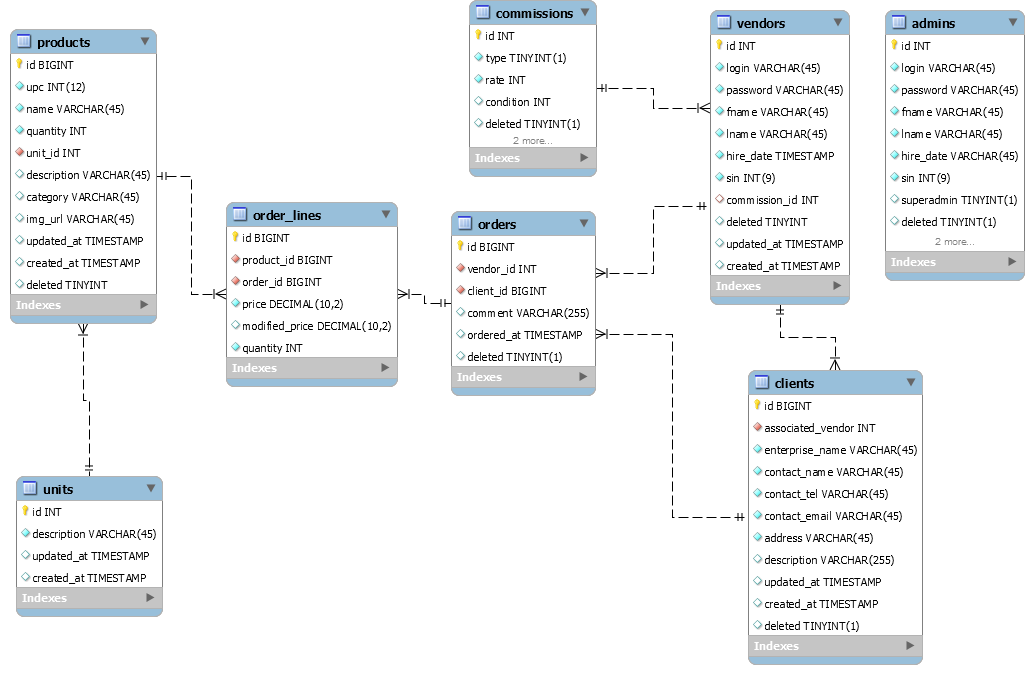
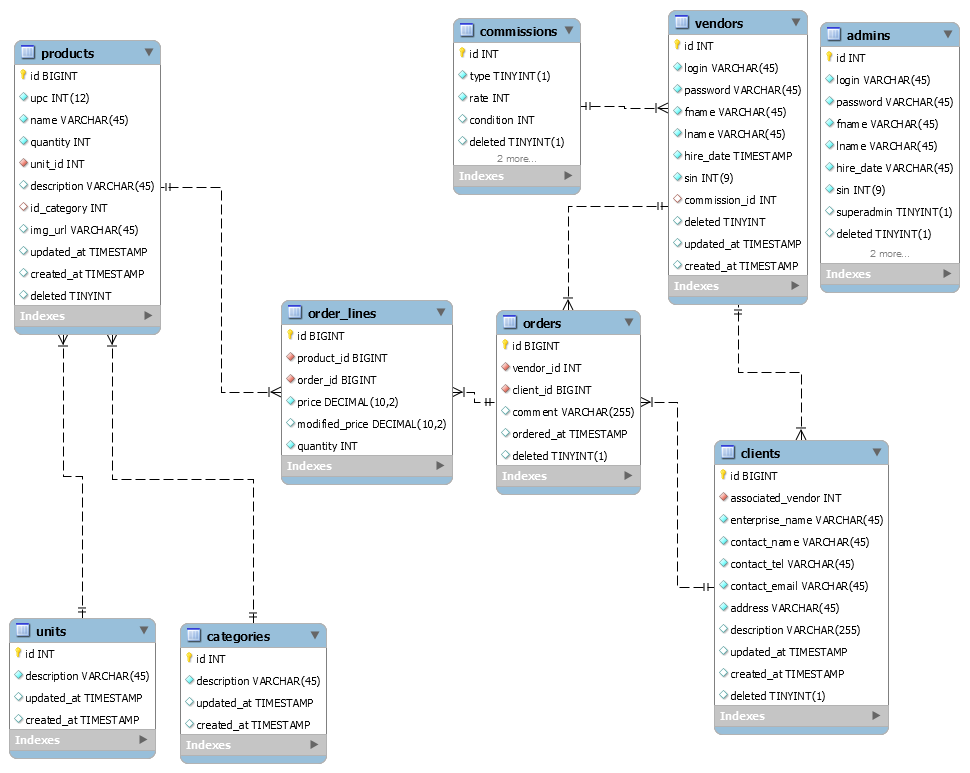
Added category and fixed some entities

diff --git a/src/com/devsolutions/camelus/entities/Product.java b/src/com/devsolutions/camelus/entities/Product.java
@@ -10,10 +10,10 @@ public class Product {
 	private int quantity;
 	private int unit_id;
 	private String description;
-	private String category;
-	private String imgUrl;
+	private int category_id;
+	private String img_url;
 	private Date created_at;
-	private Date updtated_at;
+	private Date updated_at;
 	private int deleted;
 
 	public long getId() {
@@ -56,20 +56,20 @@ public class Product {
 		this.description = description;
 	}
 
-	public String getCategory() {
-		return category;
+	public int getCategory_id() {
+		return category_id;
 	}
 
-	public void setCategory(String category) {
-		this.category = category;
+	public void setCategory_id(int category_id) {
+		this.category_id = category_id;
 	}
 
-	public String getImgUrl() {
-		return imgUrl;
+	public String getImg_url() {
+		return img_url;
 	}
 
-	public void setImgUrl(String imgUrl) {
-		this.imgUrl = imgUrl;
+	public void setImg_url(String img_url) {
+		this.img_url = img_url;
 	}
 
 	public int getUnit_id() {
@@ -88,12 +88,12 @@ public class Product {
 		this.created_at = created_at;
 	}
 
-	public Date getUpdtated_at() {
-		return updtated_at;
+	public Date getUpdated_at() {
+		return updated_at;
 	}
 
-	public void setUpdtated_at(Date updtated_at) {
-		this.updtated_at = updtated_at;
+	public void setUpdated_at(Date updated_at) {
+		this.updated_at = updated_at;
 	}
 
 	public int getDeleted() {

diff --git a/src/com/devsolutions/camelus/entities/Admin.java b/src/com/devsolutions/camelus/entities/Admin.java
@@ -8,9 +8,11 @@ public class Admin {
 	private String password;
 	private String fname;
 	private String lname;
-	private Date hireDate;
+	private Date hire_date;
 	private int sin;
 	private int super_admin;
+	private Date created_at;
+	private Date updated_at;
 	private int deleted;
 
 	public int getId() {
@@ -53,12 +55,12 @@ public class Admin {
 		this.lname = lname;
 	}
 
-	public Date getHireDate() {
-		return hireDate;
+	public Date getHire_date() {
+		return hire_date;
 	}
 
-	public void setHireDate(Date hireDate) {
-		this.hireDate = hireDate;
+	public void setHire_date(Date hire_date) {
+		this.hire_date = hire_date;
 	}
 
 	public int getSin() {
@@ -83,6 +85,22 @@ public class Admin {
 
 	public void setDeleted(int deleted) {
 		this.deleted = deleted;
+	}
+
+	public Date getCreated_at() {
+		return created_at;
+	}
+
+	public void setCreated_at(Date created_at) {
+		this.created_at = created_at;
+	}
+
+	public Date getUpdated_at() {
+		return updated_at;
+	}
+
+	public void setUpdated_at(Date updated_at) {
+		this.updated_at = updated_at;
 	}
 
 }

diff --git a/src/com/devsolutions/camelus/entities/Client.java b/src/com/devsolutions/camelus/entities/Client.java
@@ -11,8 +11,8 @@ public class Client {
 	private String contact_email;
 	private String address;
 	private String description;
-	private Date createdAt;
-	private Date updatedAt;
+	private Date created_at;
+	private Date updated_at;
 	private int deleted;
 
 	public int getAssociated_vendor() {
@@ -79,20 +79,20 @@ public class Client {
 		this.description = description;
 	}
 
-	public Date getCreatedAt() {
-		return createdAt;
+	public Date getCreated_at() {
+		return created_at;
 	}
 
-	public void setCreatedAt(Date createdAt) {
-		this.createdAt = createdAt;
+	public void setCreated_at(Date created_at) {
+		this.created_at = created_at;
 	}
 
-	public Date getUpdatedAt() {
-		return updatedAt;
+	public Date getUpdated_at() {
+		return updated_at;
 	}
 
-	public void setUpdatedAt(Date updatedAt) {
-		this.updatedAt = updatedAt;
+	public void setUpdated_at(Date updated_at) {
+		this.updated_at = updated_at;
 	}
 
 	public int getDeleted() {

diff --git a/src/com/devsolutions/camelus/entities/Category.java b/src/com/devsolutions/camelus/entities/Category.java
@@ -2,11 +2,12 @@ package com.devsolutions.camelus.entities;
 
 import java.util.Date;
 
-public class Unit {
+public class Category {
+
 	private int id;
 	private String description;
-	private Date created_at;
 	private Date updated_at;
+	private Date created_at;
 
 	public int getId() {
 		return id;
@@ -24,20 +25,20 @@ public class Unit {
 		this.description = description;
 	}
 
-	public Date getCreated_at() {
-		return created_at;
-	}
-
-	public void setCreated_at(Date created_at) {
-		this.created_at = created_at;
-	}
-
 	public Date getUpdated_at() {
 		return updated_at;
 	}
 
 	public void setUpdated_at(Date updated_at) {
 		this.updated_at = updated_at;
+	}
+
+	public Date getCreated_at() {
+		return created_at;
+	}
+
+	public void setCreated_at(Date created_at) {
+		this.created_at = created_at;
 	}
 
 }

diff --git a/src/com/devsolutions/camelus/entities/Commission.java b/src/com/devsolutions/camelus/entities/Commission.java
@@ -1,10 +1,14 @@
 package com.devsolutions.camelus.entities;
 
+import java.util.Date;
+
 public class Commission {
 	private int id;
 	private boolean type;
 	private int rate;
 	private int condition;
+	private Date created_at;
+	private Date updated_at;
 	private int deleted;
 
 	public int getId() {
@@ -45,6 +49,22 @@ public class Commission {
 
 	public void setDeleted(int deleted) {
 		this.deleted = deleted;
+	}
+
+	public Date getCreated_at() {
+		return created_at;
+	}
+
+	public void setCreated_at(Date created_at) {
+		this.created_at = created_at;
+	}
+
+	public Date getUpdated_at() {
+		return updated_at;
+	}
+
+	public void setUpdated_at(Date updated_at) {
+		this.updated_at = updated_at;
 	}
 
 }

diff --git a/src/com/devsolutions/camelus/entities/Vendor.java b/src/com/devsolutions/camelus/entities/Vendor.java
@@ -11,6 +11,8 @@ public class Vendor {
 	private Date hire_date;
 	private int sin;
 	private int commission_id;
+	private Date created_at;
+	private Date updated_at;
 	private int deleted;
 
 	public int getId() {
@@ -83,6 +85,22 @@ public class Vendor {
 
 	public void setDeleted(int deleted) {
 		this.deleted = deleted;
+	}
+
+	public Date getCreated_at() {
+		return created_at;
+	}
+
+	public void setCreated_at(Date created_at) {
+		this.created_at = created_at;
+	}
+
+	public Date getUpdated_at() {
+		return updated_at;
+	}
+
+	public void setUpdated_at(Date updated_at) {
+		this.updated_at = updated_at;
 	}
 
 }
